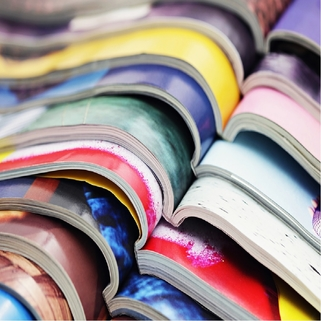
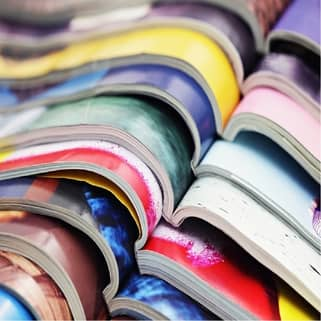
ajout des images compressées

diff --git a/index.html b/index.html
@@ -172,7 +172,7 @@
 		</div>
 		<div class="row tight-width-whitespace portfolio-row">
 			<div class="col-sm-6">
-				<a href="#" data-lightbox="img/resize-1.jpg" data-gallery-id="gallery-1" data-caption="Refonte d'un site web pour un journal local" data-frame="snapshot-lb"><img src="img/1.jpg" alt="Photo illustrant le projet de construction du site pour un journal local" class="img-responsive portfolio-thumb" /></a>
+				<a href="#" data-lightbox="img/resize-1.jpg" data-gallery-id="gallery-1" data-caption="Refonte d'un site web pour un journal local" data-frame="snapshot-lb"><img src="img/resize-1.jpg" alt="Photo illustrant le projet de construction du site pour un journal local" class="img-responsive portfolio-thumb" /></a>
 				<h3 class="mg-md text-center">
 					Refonte d'un site web pour un journal local
 				</h3>
@@ -181,7 +181,7 @@
 				</p>
 			</div>
 			<div class="col-sm-6">
-				<a href="#" data-lightbox="img/resize-2.jpg" data-gallery-id="gallery-1" data-caption="Création d'un site web pour photographes" data-frame="snapshot-lb"><img src="img/2.jpg" class="img-responsive portfolio-thumb" alt="Photo illustrant le site réalisé pour un photographe professionnel." /></a>
+				<a href="#" data-lightbox="img/resize-2.jpg" data-gallery-id="gallery-1" data-caption="Création d'un site web pour photographes" data-frame="snapshot-lb"><img src="img/resize-2.jpg" class="img-responsive portfolio-thumb" alt="Photo illustrant le site réalisé pour un photographe professionnel." /></a>
 				<h3 class="mg-md text-center">
 					Création d'un site web pour photographes
 				</h3>
